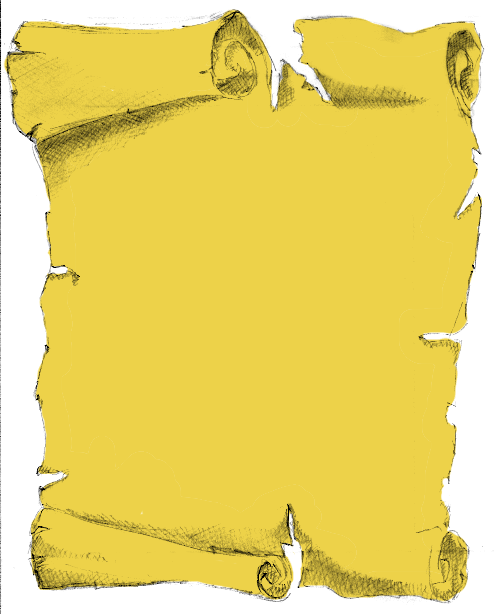
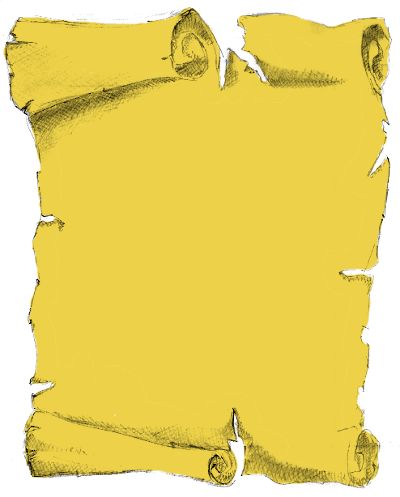
aggiunta la pergamena

Changed region(s): [[0.57, 0.8149, 0.6, 0.8451], [0.51, 0.9356, 0.54, 0.9658], [0.06, 0.9054, 0.09, 0.9356]]

diff --git a/css/main.css b/css/main.css
@@ -4,14 +4,17 @@
   margin: 0 auto;
 }
 .grid-container {
+  background-image: url("../img/pergamena.png");
   position: relative;
-  width: 218px;
+  width: 325px;
   margin-bottom: 20px;
+  height: 370px;
+  padding: 130px 0 0 75px;
 }
 .grid-container canvas {
   position: absolute;
-  width: 218px;
-  height: 218px;
+  width: 258px;
+  height: 258px;
   display: none;
 }
 .grid {
@@ -20,20 +23,21 @@
 }
 .grid td {
   border: 1px solid black;
-  width: 50px;
-  height: 50px;
+  width: 60px;
+  height: 60px;
   padding: 0;
   line-height: 0;
 }
 .grid td textarea {
+  background-color: #ffe65d;
   padding: 0;
   margin: 0;
   border: 0;
   resize: none;
-  height: 50px;
-  width: 50px;
-  line-height: 50px;
-  font-size: 40px;
+  height: 60px;
+  width: 60px;
+  line-height: 60px;
+  font-size: 50px;
   text-align: center;
   text-transform: uppercase;
 }
@@ -56,17 +60,21 @@
 .multipliers td.reset {
   padding: 0 8px;
 }
-[data-multiplier=DL] {
+.grid td textarea[data-multiplier=DL],
+.multipliers td[data-multiplier=DL] {
   background-color: lightgreen;
 }
-[data-multiplier=TL] {
+.grid td textarea[data-multiplier=TL],
+.multipliers td[data-multiplier=TL] {
   background-color: lightblue;
 }
-[data-multiplier=DW] {
+.grid td textarea[data-multiplier=DW],
+.multipliers td[data-multiplier=DW] {
   background-color: yellow;
 }
-[data-multiplier=TW] {
-  background-color: pink;
+.grid td textarea[data-multiplier=TW],
+.multipliers td[data-multiplier=TW] {
+  background-color: red;
 }
 .words-list {
   float: right;

diff --git a/css/main.less b/css/main.less
@@ -1,8 +1,9 @@
 @import "boilerplate.css";
 
-@cell-width: 50px;
+@cell-width: 60px;
 @cell-spacing: 2px;
 @grid-width: (@cell-width + 2) * 4 + @cell-spacing * 5;
+@colore-pergamena: #edd249;
 
 .container {
 	width: 960px;
@@ -10,9 +11,12 @@
 }
 
 .grid-container {
+	background-image: url("../img/pergamena.png");
 	position: relative;
-	width: @grid-width;
+	width: 400px - 75;
 	margin-bottom: 20px;
+	height: 500px - 130;
+	padding: 130px 0 0 75px;
 	canvas {
 		position: absolute;
 		width: @grid-width;
@@ -33,6 +37,7 @@
 	padding: 0;
 	line-height: 0;
 	textarea {
+		background-color: @colore-pergamena + 20;
 		padding: 0;
 		margin: 0;
 		border: 0;
@@ -40,7 +45,7 @@
 		height: @cell-width;
 		width: @cell-width;
 		line-height: @cell-width;
-		font-size: 40px;
+		font-size: @cell-width - 10;
 		text-align: center;
 		text-transform: uppercase;
 	}
@@ -66,17 +71,17 @@
 	}
 }
 
-[data-multiplier=DL],  {
+.grid td textarea[data-multiplier=DL], .multipliers td[data-multiplier=DL] {
 	background-color: lightgreen;
 }
-[data-multiplier=TL] {
+.grid td textarea[data-multiplier=TL], .multipliers td[data-multiplier=TL] {
 	background-color: lightblue;
 }
-[data-multiplier=DW] {
+.grid td textarea[data-multiplier=DW], .multipliers td[data-multiplier=DW] {
 	background-color: yellow;
 }
-[data-multiplier=TW] {
-	background-color: pink;
+.grid td textarea[data-multiplier=TW], .multipliers td[data-multiplier=TW] {
+	background-color: red;
 }
 
 .words-list {
